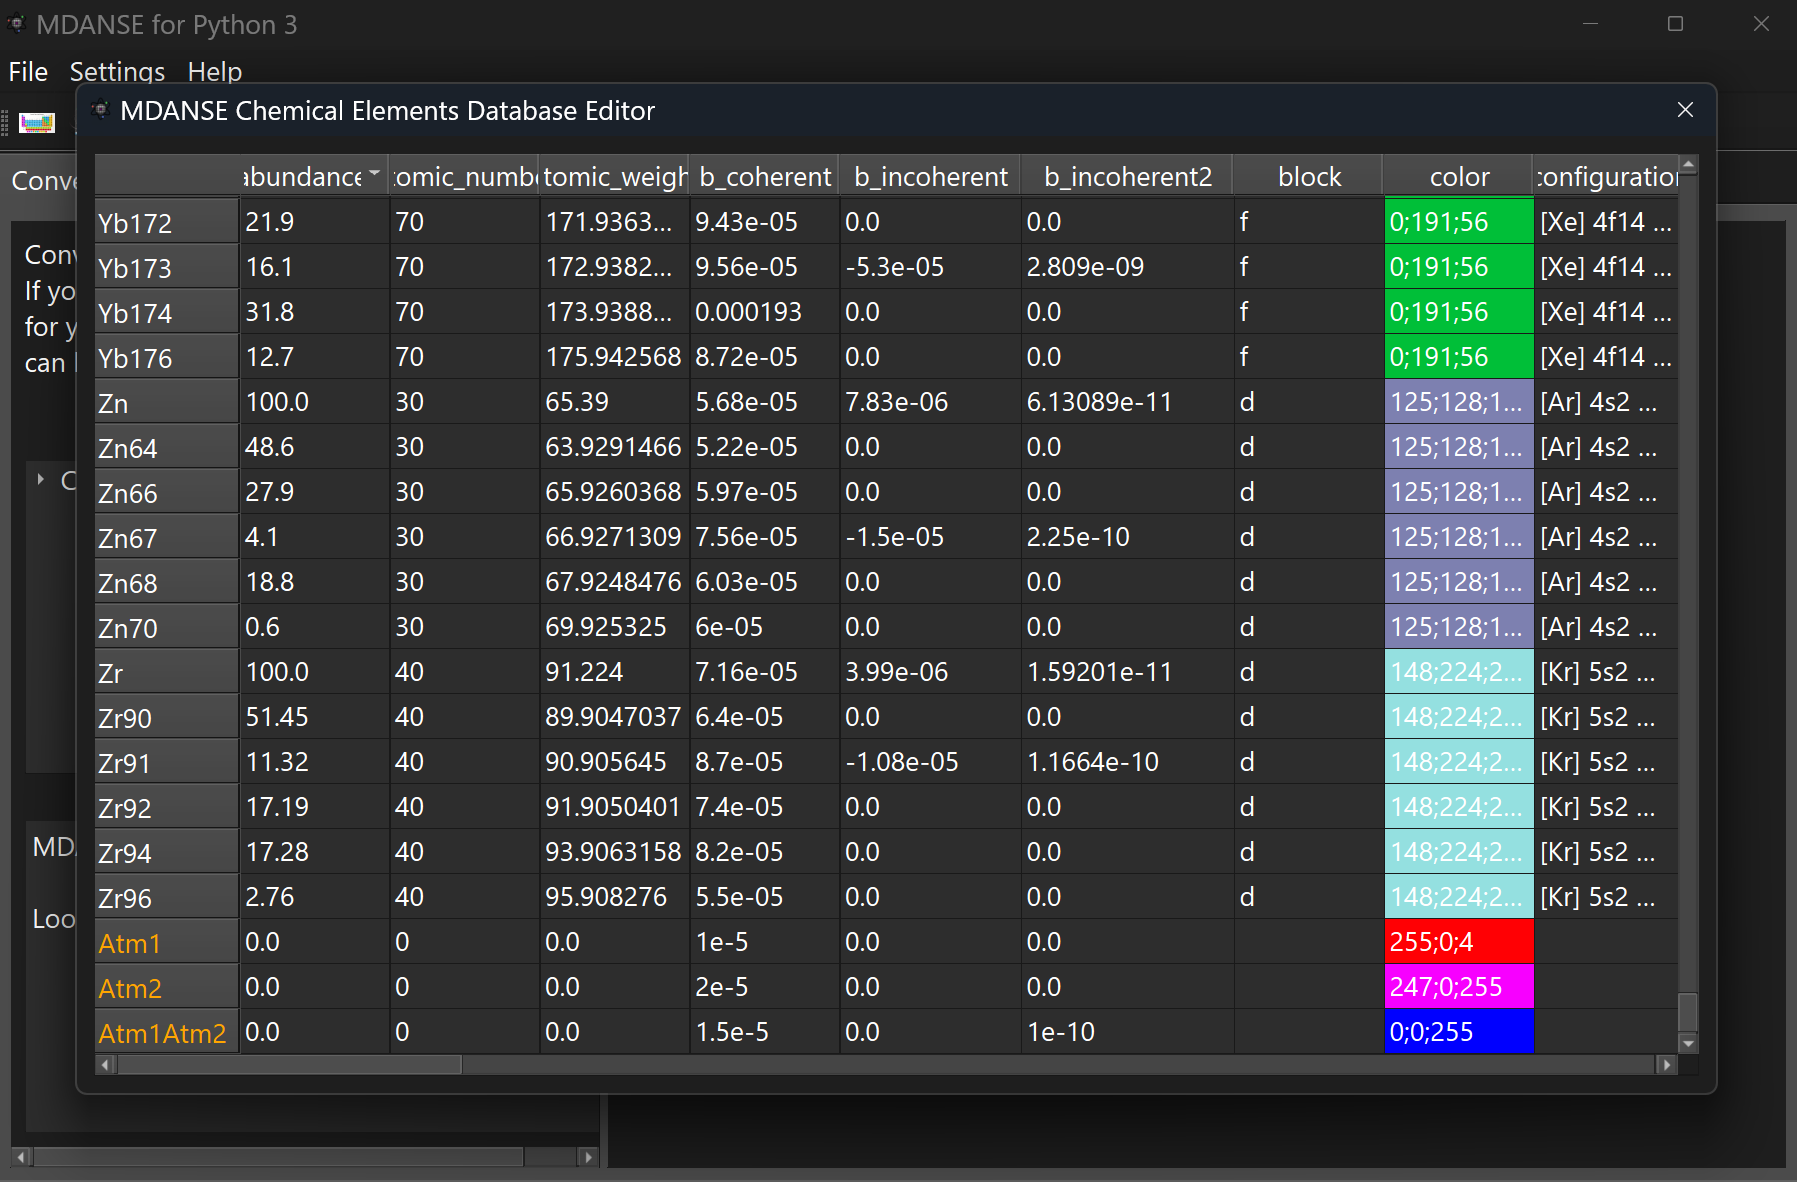
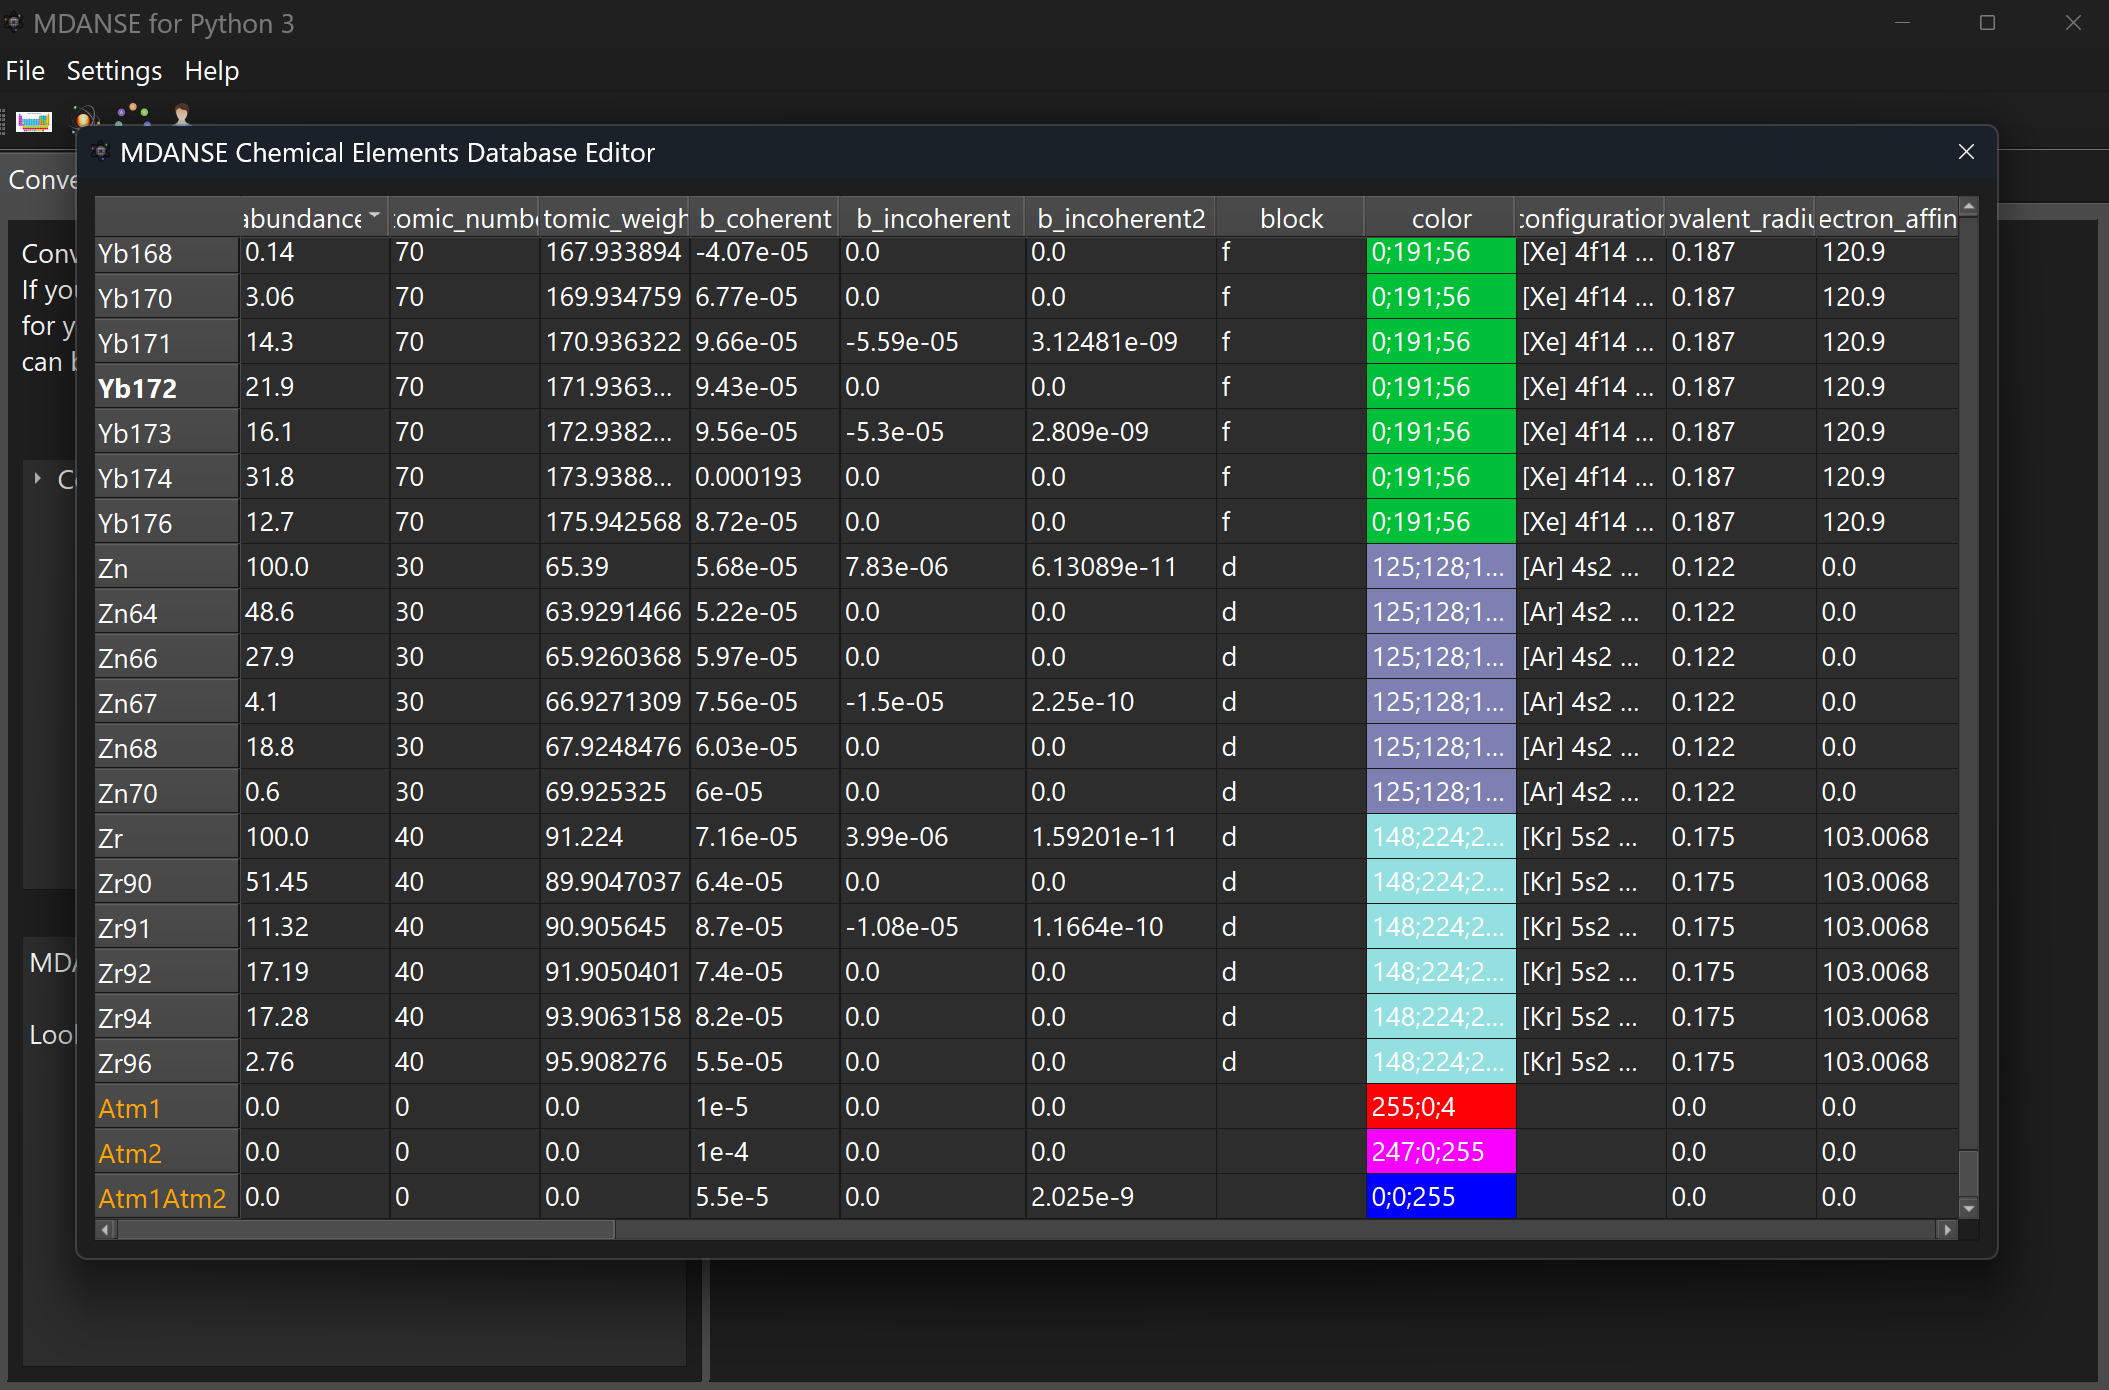
updated tutorial 4 to add section to run DISF, DCSF and NDTSF calculations. Updated all scripts to remove the atom selection setting since it was changed in the latest versions of MDANSE.

Changed region(s): [[0.0, 0.0, 1.0, 0.9137], [0.0, 0.9442, 0.9972, 1.0]]

diff --git a/tutorials/tutorial4-coherent-and-incoherent-scattering/mdanse_inputs/script5_disf.py b/tutorials/tutorial4-coherent-and-incoherent-scattering/mdanse_inputs/script5_disf.py
@@ -1,0 +1,47 @@
+#!/usr/bin/env python
+
+########################################################
+# This is an automatically generated MDANSE run script #
+########################################################
+
+from MDANSE.Framework.Jobs.IJob import IJob
+
+########################################################
+# Job parameters                                       #
+########################################################
+
+parameters_atm1_atm2 = {
+    'atom_transmutation': '{}',                         # atom_transmutation
+    'frames': [0, 1001, 1, 501],                        # frames
+    'grouping_level': 'atom',                           # grouping_level
+    'instrument_resolution': ('ideal', {}),             # instrument_resolution
+    'output_files': ('../mdanse_outputs/disf_atm1_atm2.mda', ['MDAFormat'], 'INFO'),  # output_files
+    'projection': ('NullProjector', []),                # project coordinates
+    'q_vectors': ('SphericalLatticeQVectors', {'seed': 1, 'shells': [10.0, 44.0, 2.0], 'n_vectors': 100, 'width': 0.2}),  # q_vectors
+    'running_mode': ('single-core',),                   # running_mode
+    'trajectory': '../mdanse_outputs/converted_atm1_atm2.mdt',  # trajectory
+    'weights': 'b_incoherent2',                                 # weights
+}
+parameters_atm1atm2 = {
+    'atom_transmutation': '{}',                         # atom_transmutation
+    'frames': [0, 1001, 1, 501],                        # frames
+    'grouping_level': 'atom',                           # grouping_level
+    'instrument_resolution': ('ideal', {}),             # instrument_resolution
+    'output_files': ('../mdanse_outputs/disf_atm1atm2.mda', ['MDAFormat'], 'INFO'),  # output_files
+    'projection': ('NullProjector', []),                # project coordinates
+    'q_vectors': ('SphericalLatticeQVectors', {'seed': 1, 'shells': [10.0, 44.0, 2.0], 'n_vectors': 100, 'width': 0.2}),  # q_vectors
+    'running_mode': ('single-core',),                   # running_mode
+    'trajectory': '../mdanse_outputs/converted_atm1atm2.mdt',  # trajectory
+    'weights': 'b_incoherent2',                                 # weights
+}
+
+
+########################################################
+# Setup and run the analysis                           #
+########################################################
+
+if __name__ == "__main__":
+    dynamicincoherentstructurefactor = IJob.create('DynamicIncoherentStructureFactor')
+    dynamicincoherentstructurefactor.run(parameters_atm1_atm2, status=True)
+    dynamicincoherentstructurefactor = IJob.create('DynamicIncoherentStructureFactor')
+    dynamicincoherentstructurefactor.run(parameters_atm1atm2, status=True)

diff --git a/tutorials/tutorial4-coherent-and-incoherent-scattering/mdanse_inputs/script6_dcsf.py b/tutorials/tutorial4-coherent-and-incoherent-scattering/mdanse_inputs/script6_dcsf.py
@@ -1,0 +1,47 @@
+#!/usr/bin/env python
+
+########################################################
+# This is an automatically generated MDANSE run script #
+########################################################
+
+from MDANSE.Framework.Jobs.IJob import IJob
+
+########################################################
+# Job parameters                                       #
+########################################################
+
+parameters_atm1_atm2 = {
+    'atom_transmutation': '{}',                         # atom_transmutation
+    'frames': [0, 1001, 1, 501],                        # frames
+    'grouping_level': 'atom',                           # grouping_level
+    'instrument_resolution': ('ideal', {}),             # instrument_resolution
+    'output_files': ('../mdanse_outputs/dcsf_atm1_atm2.mda', ['MDAFormat'], 'INFO'),  # output_files
+    'projection': ('NullProjector', []),                # project coordinates
+    'q_vectors': ('SphericalLatticeQVectors', {'seed': 1, 'shells': [10.0, 44.0, 2.0], 'n_vectors': 100, 'width': 0.2}),  # q_vectors
+    'running_mode': ('single-core',),                   # running_mode
+    'trajectory': '../mdanse_outputs/converted_atm1_atm2.mdt',  # trajectory
+    'weights': 'b_coherent',                                 # weights
+}
+parameters_atm1atm2 = {
+    'atom_transmutation': '{}',                         # atom_transmutation
+    'frames': [0, 1001, 1, 501],                        # frames
+    'grouping_level': 'atom',                           # grouping_level
+    'instrument_resolution': ('ideal', {}),             # instrument_resolution
+    'output_files': ('../mdanse_outputs/dcsf_atm1atm2.mda', ['MDAFormat'], 'INFO'),  # output_files
+    'projection': ('NullProjector', []),                # project coordinates
+    'q_vectors': ('SphericalLatticeQVectors', {'seed': 1, 'shells': [10.0, 44.0, 2.0], 'n_vectors': 100, 'width': 0.2}),  # q_vectors
+    'running_mode': ('single-core',),                   # running_mode
+    'trajectory': '../mdanse_outputs/converted_atm1atm2.mdt',  # trajectory
+    'weights': 'b_coherent',                                 # weights
+}
+
+
+########################################################
+# Setup and run the analysis                           #
+########################################################
+
+if __name__ == "__main__":
+    dynamiccoherentstructurefactor = IJob.create('DynamicCoherentStructureFactor')
+    dynamiccoherentstructurefactor.run(parameters_atm1_atm2, status=True)
+    dynamiccoherentstructurefactor = IJob.create('DynamicCoherentStructureFactor')
+    dynamiccoherentstructurefactor.run(parameters_atm1atm2, status=True)

diff --git a/tutorials/tutorial4-coherent-and-incoherent-scattering/mdanse_inputs/script7_ndtsf.py b/tutorials/tutorial4-coherent-and-incoherent-scattering/mdanse_inputs/script7_ndtsf.py
@@ -1,0 +1,38 @@
+#!/usr/bin/env python
+
+########################################################
+# This is an automatically generated MDANSE run script #
+########################################################
+
+from MDANSE.Framework.Jobs.IJob import IJob
+
+########################################################
+# Job parameters                                       #
+########################################################
+
+parameters_atm1_atm2 = {
+    'atom_transmutation': '{}',                         # atom_transmutation
+    'dcsf_input_file': '../mdanse_outputs/dcsf_atm1_atm2.mda',  # MDANSE Coherent Structure Factor
+    'disf_input_file': '../mdanse_outputs/disf_atm1_atm2.mda',  # MDANSE Incoherent Structure Factor
+    'output_files': ('../mdanse_outputs/ndtsf_atm1_atm2.mda', ['MDAFormat'], 'INFO'),  # output_files
+    'running_mode': ('single-core',),                   # running_mode
+    'trajectory': '../mdanse_outputs/converted_atm1_atm2.mdt',  # trajectory
+}
+parameters_atm1atm2 = {
+    'atom_transmutation': '{}',                         # atom_transmutation
+    'dcsf_input_file': '../mdanse_outputs/dcsf_atm1atm2.mda',  # MDANSE Coherent Structure Factor
+    'disf_input_file': '../mdanse_outputs/disf_atm1atm2.mda',  # MDANSE Incoherent Structure Factor
+    'output_files': ('../mdanse_outputs/ndtsf_atm1atm2.mda', ['MDAFormat'], 'INFO'),  # output_files
+    'running_mode': ('single-core',),                   # running_mode
+    'trajectory': '../mdanse_outputs/converted_atm1atm2.mdt',  # trajectory
+}
+
+########################################################
+# Setup and run the analysis                           #
+########################################################
+
+if __name__ == "__main__":
+    neutrondynamictotalstructurefactor = IJob.create('NeutronDynamicTotalStructureFactor')
+    neutrondynamictotalstructurefactor.run(parameters_atm1_atm2, status=True)
+    neutrondynamictotalstructurefactor = IJob.create('NeutronDynamicTotalStructureFactor')
+    neutrondynamictotalstructurefactor.run(parameters_atm1atm2, status=True)

diff --git a/tutorials/tutorial4-coherent-and-incoherent-scattering/mdanse_inputs/script4_atm1atm2.py b/tutorials/tutorial4-coherent-and-incoherent-scattering/mdanse_inputs/script4_atm1atm2.py
@@ -4,20 +4,17 @@ from MDANSE.Framework.Jobs.IJob import IJob
 # Create the custom atom types
 if "Atm1Atm2" not in ATOMS_DATABASE.atoms:
     ATOMS_DATABASE.add_atom("Atm1Atm2")
-ATOMS_DATABASE.set_value("Atm1Atm2", "b_coherent", 1.5e-5)
-ATOMS_DATABASE.set_value("Atm1Atm2", "b_incoherent2", 1e-10)
+ATOMS_DATABASE.set_value("Atm1Atm2", "b_coherent", 5.5e-5)
+ATOMS_DATABASE.set_value("Atm1Atm2", "b_incoherent2", 2.025e-9)
 ATOMS_DATABASE.set_value("Atm1Atm2", "color", "0;0;255")
 ATOMS_DATABASE.set_value("Atm1Atm2", "vdw_radius", 0.188)
-# uncomment the line below if you wish to save Atm1 and Atm2 to your
+# uncomment the line below if you wish to save Atm1Atm2 to your
 # local atom database
 # ATOMS_DATABASE.save()
 
 
 # Generate a mapping which transmutes all atoms to Atm1Atm2
-mapping = {}
-for i in list(range(256)):
-    mapping[str(i)] = "Atm1Atm2"
-
+mapping = {str(i): "Atm1Atm2" for i in range(256)}
 
 # setup to parameters to run the trajectory editor.
 parameters = {

diff --git a/tutorials/tutorial4-coherent-and-incoherent-scattering/mdanse_inputs/script3_atm1_atm2.py b/tutorials/tutorial4-coherent-and-incoherent-scattering/mdanse_inputs/script3_atm1_atm2.py
@@ -11,7 +11,7 @@ ATOMS_DATABASE.set_value("Atm1", "b_coherent", 1e-5)
 ATOMS_DATABASE.set_value("Atm1", "b_incoherent2", 0.0)
 ATOMS_DATABASE.set_value("Atm1", "color", "255;0;0")
 ATOMS_DATABASE.set_value("Atm1", "vdw_radius", 0.188)
-ATOMS_DATABASE.set_value("Atm2", "b_coherent", 2e-5)
+ATOMS_DATABASE.set_value("Atm2", "b_coherent", 1e-4)
 ATOMS_DATABASE.set_value("Atm2", "b_incoherent2", 0.0)
 ATOMS_DATABASE.set_value("Atm2", "color", "247;0;255")
 ATOMS_DATABASE.set_value("Atm2", "vdw_radius", 0.188)
@@ -24,7 +24,7 @@ ATOMS_DATABASE.set_value("Atm2", "vdw_radius", 0.188)
 # Atm1 or Atm2 randomly.
 isotopes = ["Atm1"] * 128 + ["Atm2"] * 128
 mapping = {}
-for i in list(range(256)):
+for i in range(256):
     random_element = random.choice(isotopes)
     isotopes.remove(random_element)
     mapping[str(i)] = random_element

diff --git a/tutorials/tutorial1-phase-transition/mdanse_inputs/script4_pdf.py b/tutorials/tutorial1-phase-transition/mdanse_inputs/script4_pdf.py
@@ -11,7 +11,6 @@ from MDANSE.Framework.Jobs.IJob import IJob
 ########################################################
 
 parameters = {
-    'atom_selection': '{"all": true}',                  # atom_selection
     'atom_transmutation': '{}',                         # atom_transmutation
     'frames': [0, 500, 1],                              # frames
     'output_files': ('../mdanse_outputs/pair_distribution_function_solid', ['MDAFormat'], "INFO"),  # output_files

diff --git a/tutorials/tutorial2-van-hove-function/mdanse_inputs/script2_vhfd.py b/tutorials/tutorial2-van-hove-function/mdanse_inputs/script2_vhfd.py
@@ -11,7 +11,6 @@ from MDANSE.Framework.Jobs.IJob import IJob
 ########################################################
 
 parameters = {
-    'atom_selection': '{"all": true}',                  # atom_selection
     'frames': [0, 1001, 1, 501],                        # frames
     'output_files': ('../mdanse_outputs/vanhovefunctiondistinct', ['MDAFormat'], 'INFO'),  # output_files
     'r_values': [0.0, 1.14, 0.01],                      # r values (nm)

diff --git a/tutorials/tutorial2-van-hove-function/mdanse_inputs/script3_vhfs.py b/tutorials/tutorial2-van-hove-function/mdanse_inputs/script3_vhfs.py
@@ -11,7 +11,6 @@ from MDANSE.Framework.Jobs.IJob import IJob
 ########################################################
 
 parameters = {
-    'atom_selection': '{"all": true}',                  # atom_selection
     'frames': [0, 1001, 1, 31],                         # frames
     'output_files': ('../mdanse_outputs/vanhovefunctionself', ['MDAFormat'], 'INFO'),  # output_files
     'r_values': [0.0, 1.14, 0.01],                      # r values (nm)

diff --git a/tutorials/tutorial1-phase-transition/mdanse_inputs/script3_rmsd.py b/tutorials/tutorial1-phase-transition/mdanse_inputs/script3_rmsd.py
@@ -11,7 +11,6 @@ from MDANSE.Framework.Jobs.IJob import IJob
 ########################################################
 
 parameters = {
-    'atom_selection': '{"all": true}',                  # atom_selection
     'atom_transmutation': '{}',                         # atom_transmutation
     'frames': [0, 1000, 1],                             # frames
     'grouping_level': 'atom',                           # grouping_level

diff --git a/tutorials/tutorial3-quasielastic-neutron-scattering/mdanse_inputs/script2_disf.py b/tutorials/tutorial3-quasielastic-neutron-scattering/mdanse_inputs/script2_disf.py
@@ -11,7 +11,6 @@ from MDANSE.Framework.Jobs.IJob import IJob
 ########################################################
 
 parameters = {
-    'atom_selection': '{"all": true}',                  # atom_selection
     'atom_transmutation': '{}',                         # atom_transmutation
     'frames': [0, 1001, 1, 501],                        # frames
     'grouping_level': 'atom',                           # grouping_level

diff --git a/tutorials/tutorial3-quasielastic-neutron-scattering/mdanse_inputs/script3_gdisf.py b/tutorials/tutorial3-quasielastic-neutron-scattering/mdanse_inputs/script3_gdisf.py
@@ -11,7 +11,6 @@ from MDANSE.Framework.Jobs.IJob import IJob
 ########################################################
 
 parameters = {
-    'atom_selection': '{"all": true}',                  # atom_selection
     'atom_transmutation': '{}',                         # atom_transmutation
     'frames': [0, 1001, 1, 501],                        # frames
     'grouping_level': 'atom',                           # grouping_level

diff --git a/tutorials/tutorial4-coherent-and-incoherent-scattering/mdanse_inputs/script2_random.py b/tutorials/tutorial4-coherent-and-incoherent-scattering/mdanse_inputs/script2_random.py
@@ -3,7 +3,7 @@ import random
 isotopes = ["Atm1"] * 128 + ["Atm2"] * 128
 
 mapping = {}
-for i in list(range(256)):
+for i in range(256):
     random_element = random.choice(isotopes)
     isotopes.remove(random_element)
     mapping[str(i)] = random_element
